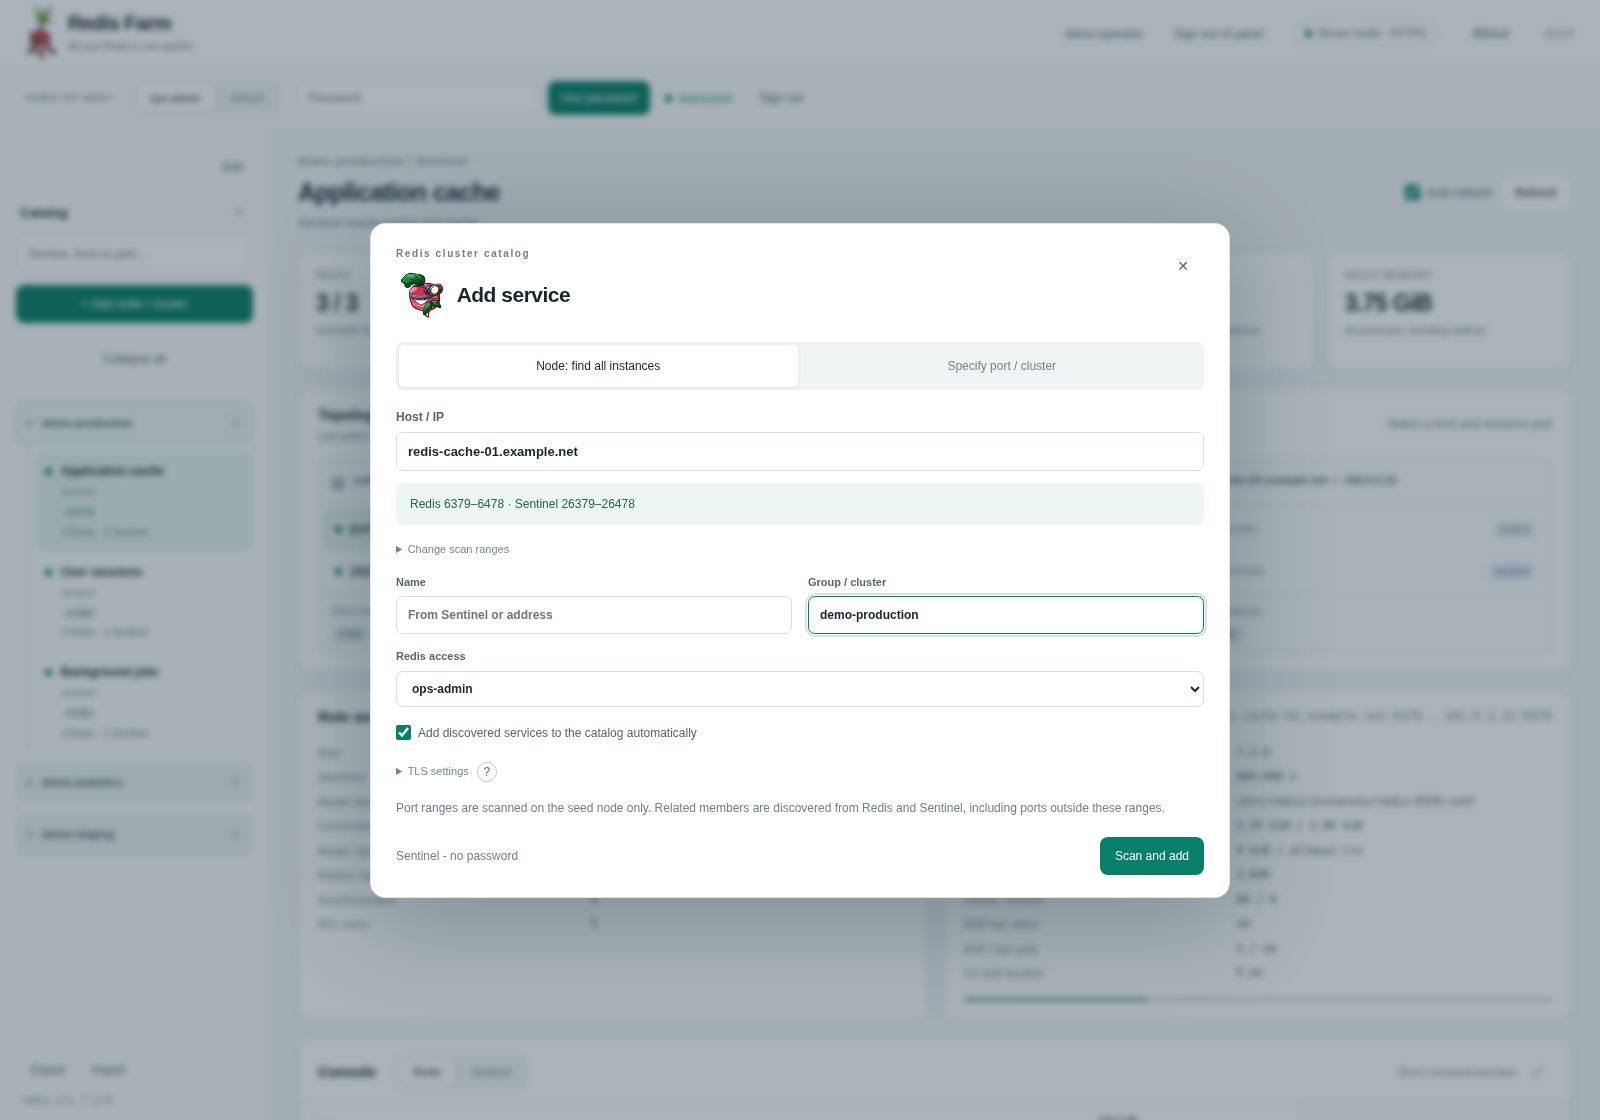
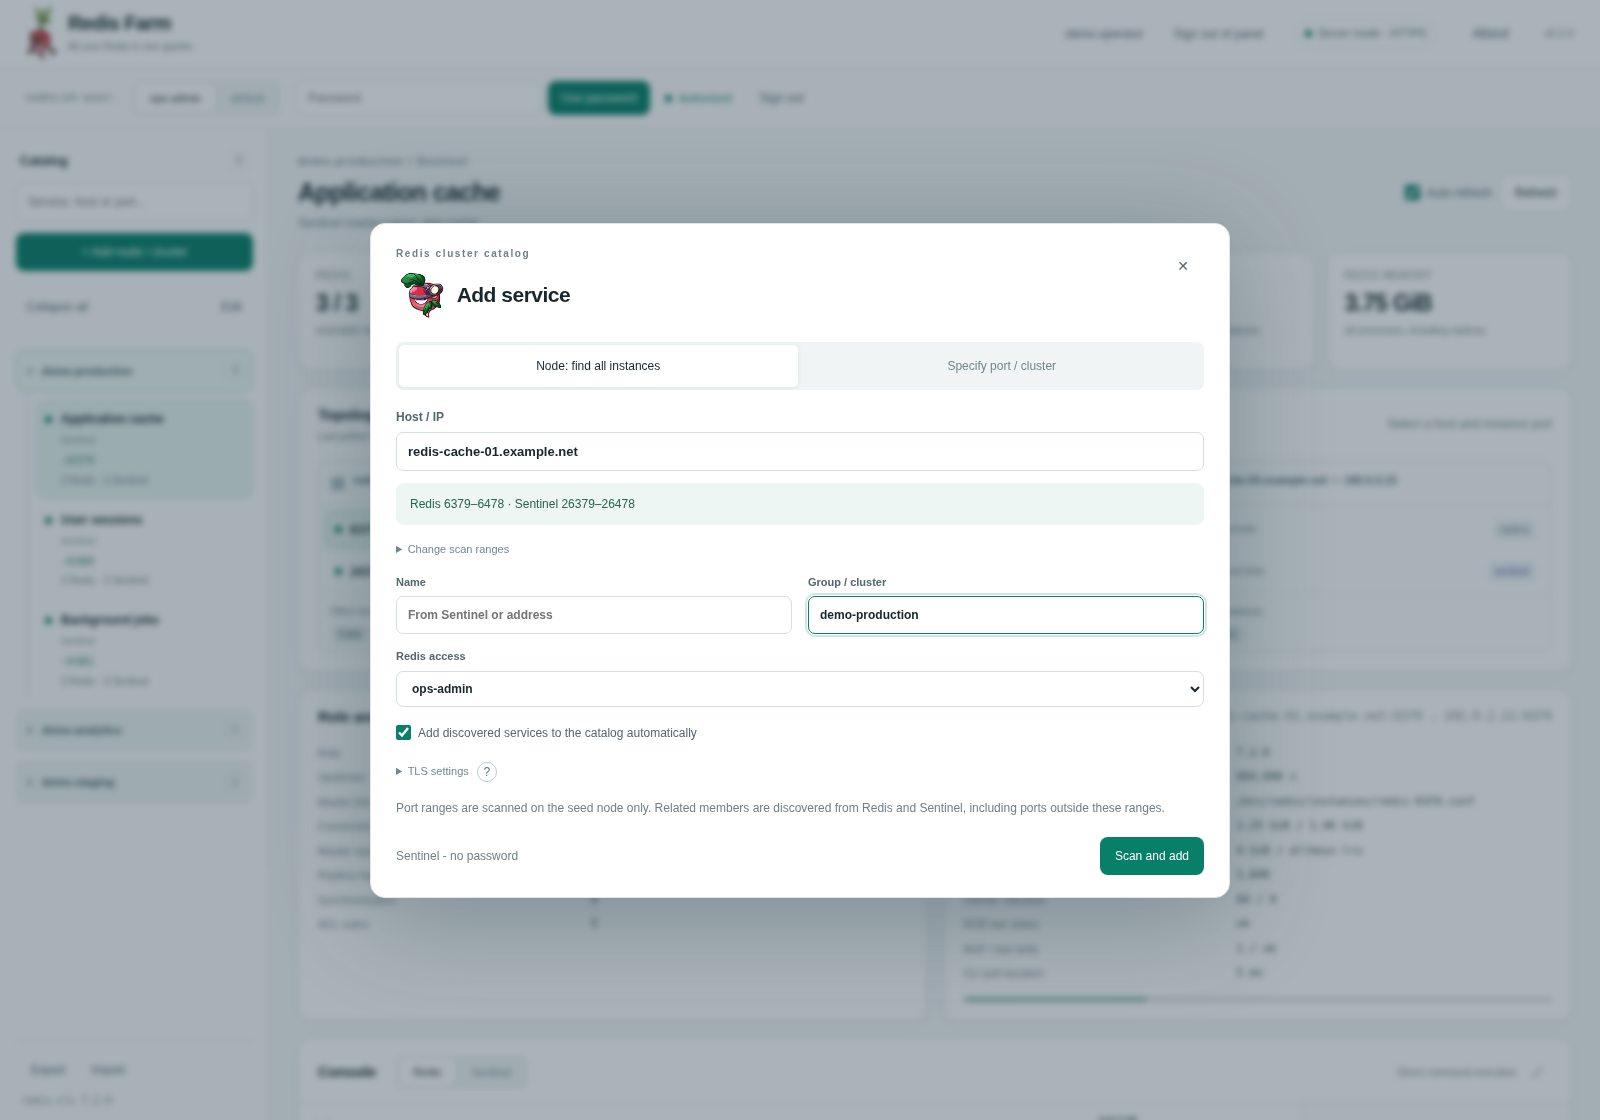
Release Redis Farm 0.2.0

diff --git a/redis_farm/templates/index.html b/redis_farm/templates/index.html
@@ -35,11 +35,13 @@
 </section>
 <div class="app-layout">
   <aside class="sidebar">
-    <div class="catalog-edit-row"><button id="editButton" class="ghost small" disabled title="{{ t('Имя и группа') }}">{{ t("Править") }}</button></div>
     <div class="sidebar-heading"><strong>{{ t("Каталог") }}</strong><span id="catalogCount" class="count">0</span></div>
     <input id="catalogSearch" type="search" placeholder="{{ t('Сервис, хост или порт…') }}" aria-label="{{ t('Поиск по каталогу') }}">
     <button id="addButton" class="add-button">{{ t("＋ Добавить ноду / кластер") }}</button>
-    <button id="toggleAllGroups" type="button" class="ghost small catalog-toggle-all" aria-controls="catalog" disabled>{{ t("Развернуть всё") }}</button>
+    <div class="catalog-actions-row">
+      <button id="toggleAllGroups" type="button" class="ghost small catalog-toggle-all" aria-controls="catalog" disabled>{{ t("Развернуть всё") }}</button>
+      <button id="editButton" type="button" class="ghost small catalog-edit-button" disabled title="{{ t('Имя и группа') }}">{{ t("Править") }}</button>
+    </div>
     <div id="catalog" class="catalog" aria-label="{{ t('Сохранённые сервисы') }}"></div>
     <div class="sidebar-bottom">
       <div class="button-row"><button id="exportButton" class="ghost small">{{ t("Экспорт") }}</button><button id="importButton" type="button" class="ghost small">{{ t("Импорт") }}</button></div>

diff --git a/redis_farm/static/app.css b/redis_farm/static/app.css
@@ -97,3 +97,8 @@
 .catalog-edit-row {display:flex;justify-content:flex-end;min-height:30px;margin-bottom:8px;}
 .catalog-toggle-all {width:100%;display:flex;justify-content:center;margin:8px 0 10px;min-height:30px;}
 .welcome-logo {height:76px;width:auto;object-fit:contain;margin-bottom:8px;}
+
+/* 0.2.0 UI refinement: both catalog actions on the same line. */
+.catalog-actions-row{display:flex;align-items:center;gap:8px;min-width:0;margin:8px 0 10px}
+.catalog-actions-row .catalog-toggle-all{flex:1 1 auto;width:auto;margin:0;justify-content:flex-start;min-width:0;padding-left:9px}
+.catalog-actions-row .catalog-edit-button{flex:0 0 auto;margin:0;min-height:30px;padding:6px 10px}

diff --git a/tools/render_demo.py b/tools/render_demo.py
@@ -168,6 +168,7 @@ def render_and_verify():
                 page.wait_for_selector('#topology .host-card')
                 page.wait_for_function("state.snapshot !== null && !document.getElementById('detailRefresh').disabled")
                 page.wait_for_timeout(150)
+                check(language+' catalog actions share a row',page.locator('#toggleAllGroups').evaluate('(e)=>e.parentElement.contains(document.getElementById("editButton"))'))
                 check(language+' no JS errors',not errors)
                 check(language+' three nodes',page.locator('#topology .host-card').count()==3)
                 check(language+' logo original',page.locator('.brand-logo').evaluate('(e)=>e.naturalWidth===159 && e.naturalHeight===287'))
@@ -187,6 +188,16 @@ def render_and_verify():
                     check(language+' anonymous '+banned,banned not in text)
                 if language=='en':check('English main screen has no Cyrillic',not re.search('[\u0400-\u04ff]',text))
                 page.screenshot(path=str(out/f'dashboard-{language}.png'),full_page=True)
+                login_page=browser.new_page(viewport={'width':1280,'height':800},device_scale_factor=1)
+                conn=http.client.HTTPConnection('127.0.0.1',server.server_port)
+                conn.request('GET','/login?lang='+language);lr=conn.getresponse();login_html=lr.read().decode();conn.close()
+                login_html=re.sub(r'<script[^>]*src=[^>]*>\s*</script>|<link[^>]*>','',login_html)
+                login_page.set_content(login_html)
+                for css_name in ('app.css','login.css'):
+                    login_page.add_style_tag(content=(ROOT/'redis_farm/static'/css_name).read_text())
+                check(language+' login label',login_page.locator('#username').count()==1 and login_page.locator('#password').count()==1)
+                login_page.screenshot(path=str(out/f'login-{language}.png'),full_page=True)
+                login_page.close()
                 page.locator('#detailTabs button[data-topic=clients]').click()
                 page.wait_for_selector('#detailContent tbody tr')
                 page.wait_for_function("state.topic === 'clients' && document.getElementById('detailContent').textContent.includes('api-worker-1')")

diff --git a/README.ru.md b/README.ru.md
@@ -31,6 +31,12 @@
 
 </details>
 
+<details><summary>Вход через LDAP</summary>
+
+![Вход в панель через LDAP](docs/images/login-ru.png)
+
+</details>
+
 ## Возможности
 
 Добавление по имени ноды или IP с опросом выбранных диапазонов Redis и Sentinel; также поддерживается конкретный порт, список и диапазон портов. По умолчанию используются `6379–6478` и `26379–26478`, но границы настраиваются. Пропуски портов не останавливают поиск. На начальной ноде сканируются диапазоны, на остальных — конкретные endpoint из репликации, Sentinel или Redis Cluster. Отдельные, не связанные топологией сервисы на других хостах автоматически не инвентаризируются.

diff --git a/CHANGELOG.md b/CHANGELOG.md
@@ -2,6 +2,8 @@
 
 ## 0.2.0
 
+GitHub publication includes a CI workflow for syntax checks, Python tests and bilingual demo screenshot generation, the catalog action buttons on one row, and LDAP sign-in screenshots in both READMEs.
+
 Universal distribution: English default on new installations; Russian selectable in both installers and preserved on legacy upgrades. Localized templates, dynamic labels, password validation, panel errors and installer prompts. Redis CLI output and external package-manager diagnostics remain original.
 
 Optional LDAP/no-login server mode with explicit acknowledgment for unauthenticated access; local mode remains independent of LDAP. Generic first-run IP/DNS/LDAP examples replace organization-specific defaults. Configurable named Redis ACL user, consistently shown in its tab and passed to CLI; default profile/password scopes unchanged.

diff --git a/README.md b/README.md
@@ -6,7 +6,7 @@
 
 ## Screenshots
 
-These are the actual application templates and JavaScript rendered.
+Example of the application JavaScript template.
 
 ![Dashboard: catalog, topology, replication and console](docs/images/dashboard-en.png)
 
@@ -28,6 +28,12 @@ These are the actual application templates and JavaScript rendered.
 <details><summary>About and installation details</summary>
 
 ![About: expanded installation details](docs/images/about-en.png)
+
+</details>
+
+<details><summary>LDAP sign-in</summary>
+
+![LDAP sign-in](docs/images/login-en.png)
 
 </details>
 
